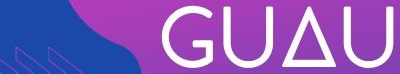
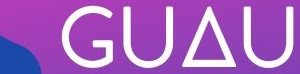
manos estilos están presentables

diff --git a/styles.css b/styles.css
@@ -16,6 +16,7 @@ header{
 
 .logo_inicial{
     height: 145px;
+    margin-left: 100px;
 }
 
 .header-image {
@@ -41,6 +42,7 @@ header{
         header {
             height: 72px;
             padding: 5px;
+        
         }
     
         .contenedor_header1 {
@@ -63,7 +65,7 @@ header{
             margin: 10px;
             border: 1px solid #ccc;
             height: auto; /* Deja que la altura se ajuste automáticamente */
-            min-width: 200px; /* Asegura un ancho mínimo */
+            min-width: 100px; /* Asegura un ancho mínimo */
             text-align: center;
         }
     
@@ -98,7 +100,7 @@ header{
         justify-content: space-between;
         gap: 10px; 
         margin: 0 70px;
-        margin-top: 50px;
+        margin-top: 25px;
     
     }  
 
@@ -106,13 +108,13 @@ header{
 
         display: block;
         background-color: lightblue;
-        padding: 20px;
+        padding: 35px;
         margin: 1px;
         border: 1px solid #ccc;
-        height: 253px;
-        min-width: 200px; /* Ancho mínimo para cada contenedor */
+        height: 224px;
+        min-width: 180px; /* Ancho mínimo para cada contenedor */
         text-align: center; 
-        margin-bottom: 30px;
+        margin-bottom: 20px;
 
         }
 
@@ -130,14 +132,14 @@ header{
 
      .imagen{
         display: block;
-        height:250px ;
-        width: 240px;
+        height: 240px;
+        width: 180px;
         margin-bottom: 10px;
      }
 
      .parrafo_inicial{
        
-        margin-top: 70px;
+        margin-top: 40px;
 
      }
 

diff --git a/tienda_guau.html b/tienda_guau.html
@@ -28,7 +28,7 @@
       <!-- Imagen para pantallas pequeñas (móviles) -->
       <source srcset="header_mobile.png" media="(max-width: 767px)">
       <!-- Imagen por defecto si los medios anteriores no coinciden -->
-      <img src="header_mobile.png" alt="Imagen responsive">
+      <img src="header_mobileb.png" alt="Imagen responsive">
   </picture>
   </div>
   </header>
